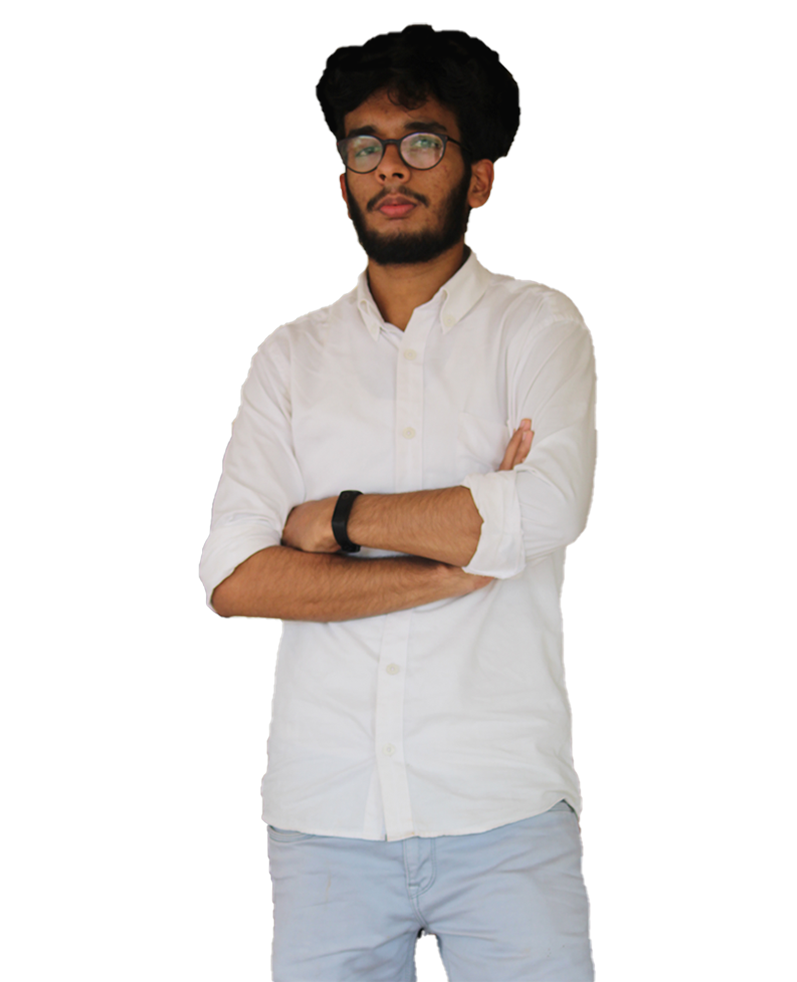
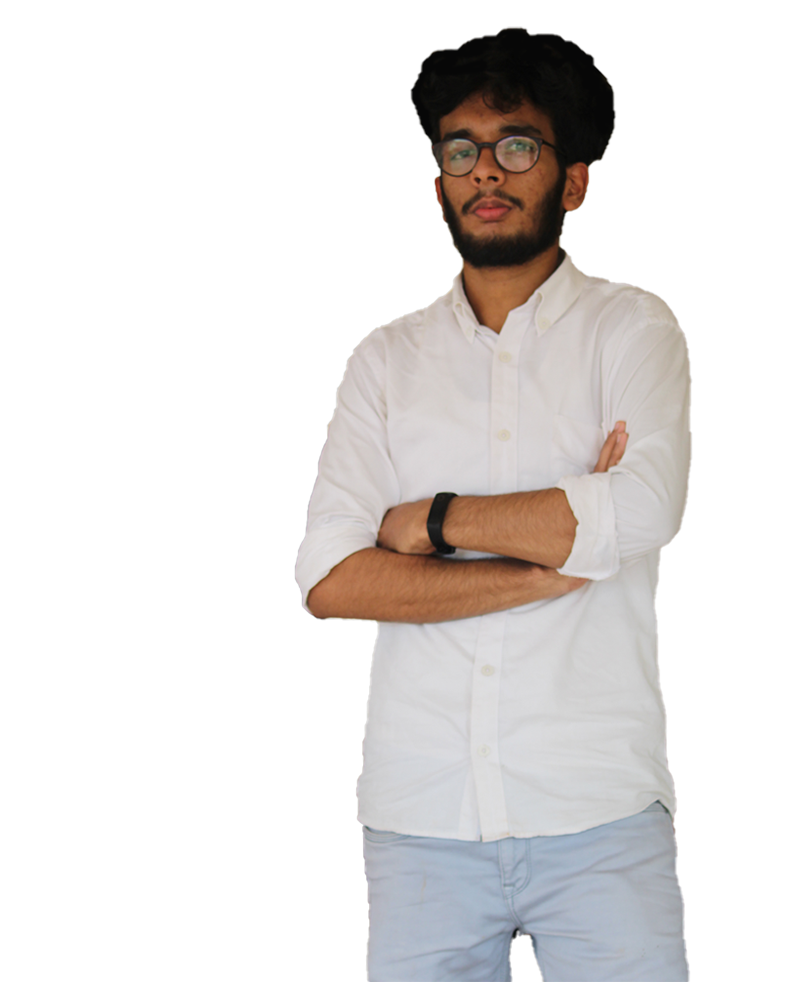
new

diff --git a/index.html b/index.html
@@ -215,7 +215,7 @@
                 <div class="row">
                     <div class="col-md-4 col-xs-6">
                         <div class="portfolio-item">
-                            <img src="assets/img/portfolio-1.jpg" class="img-res" alt="">
+                            <img src="assets/img/Portfolio-6.jpg" class="img-res" alt="">
                             <div class="portfolio-item-info">
                                 <h4>E-Commerce Website</h4>
                                 <a href="#" data-toggle="modal" data-target="#portfolioItem1"><span class="glyphicon glyphicon-eye-open"></span></a>
@@ -235,7 +235,7 @@
                     </div>
                     <div class="col-md-4 col-xs-6">
                         <div class="portfolio-item">
-                            <img src="assets/img/Portfolio-5.jpg" class="img-res" alt="">
+                            <img src="assets/img/Portfolio-1.jpg" class="img-res" alt="">
                             <div class="portfolio-item-info">
                                 <h4>Company Website</h4>
                                 <a href="#" data-toggle="modal" data-target="#portfolioItem3"><span class="glyphicon glyphicon-eye-open"></span></a>
@@ -245,7 +245,7 @@
                     </div>
                     <div class="col-md-4 col-xs-6">
                         <div class="portfolio-item">
-                            <img src="assets/img/portfolio-4.jpg" class="img-res" alt="">
+                            <img src="assets/img/Portfolio-4.jpg" class="img-res" alt="">
                             <div class="portfolio-item-info">
                                 <h4>UI Desgin of E-commerce Platform</h4>
                                 <a href="#" data-toggle="modal" data-target="#portfolioItem4"><span class="glyphicon glyphicon-eye-open"></span></a>
@@ -255,7 +255,7 @@
                     </div>
                     <div class="col-md-4 col-xs-6">
                         <div class="portfolio-item">
-                            <img src="assets/img/portfolio-5.jpg" class="img-res" alt="">
+                            <img src="assets/img/Portfolio-4.jpg" class="img-res" alt="">
                             <div class="portfolio-item-info">
                                 <h4>UI Prototype of KMCT CE</h4>
                                 <a href="#" data-toggle="modal" data-target="#portfolioItem5"><span class="glyphicon glyphicon-eye-open"></span></a>
@@ -265,7 +265,7 @@
                     </div>
                     <div class="col-md-4 col-xs-6">
                         <div class="portfolio-item">
-                            <img src="assets/img/portfolio-6.jpg" class="img-res" alt="">
+                            <img src="assets/img/Portfolio-3.jpg" class="img-res" alt="">
                             <div class="portfolio-item-info">
                                 <h4>AI Project Using Python</h4>
                                 <a href="#" data-toggle="modal" data-target="#portfolioItem6"><span class="glyphicon glyphicon-eye-open"></span></a>

diff --git a/assets/css/style.css b/assets/css/style.css
@@ -157,6 +157,7 @@ html, body {
 .site-header {
     position: fixed;
     top: 0;
+    left: 8px;
     width: 100%;
     background-color: transparent;
     z-index: 5;
@@ -216,8 +217,8 @@ html, body {
 
 .hero .col-md-6:first-child {
     position: absolute;
-    top: 50%;
-    left: 0;
+    top: 45%;
+    left: 8px;
     transform: translateY(-50%);
     -webkit-transform: translateY(-50%);
     -ms-transform: translateY(-50%);

diff --git a/assets/css/responsive.css b/assets/css/responsive.css
@@ -12,7 +12,7 @@
 	/* HERO
 	================================================== */
 	.hero {
-		min-height: 600px;
+		min-height: 750px;
 	}
 
 	.hero img {
@@ -308,7 +308,8 @@
 	}
 
 	.hero img {
-		height: 360px
+		height: 360px;
+	
 	}
 
 	/* SITEMAIN
